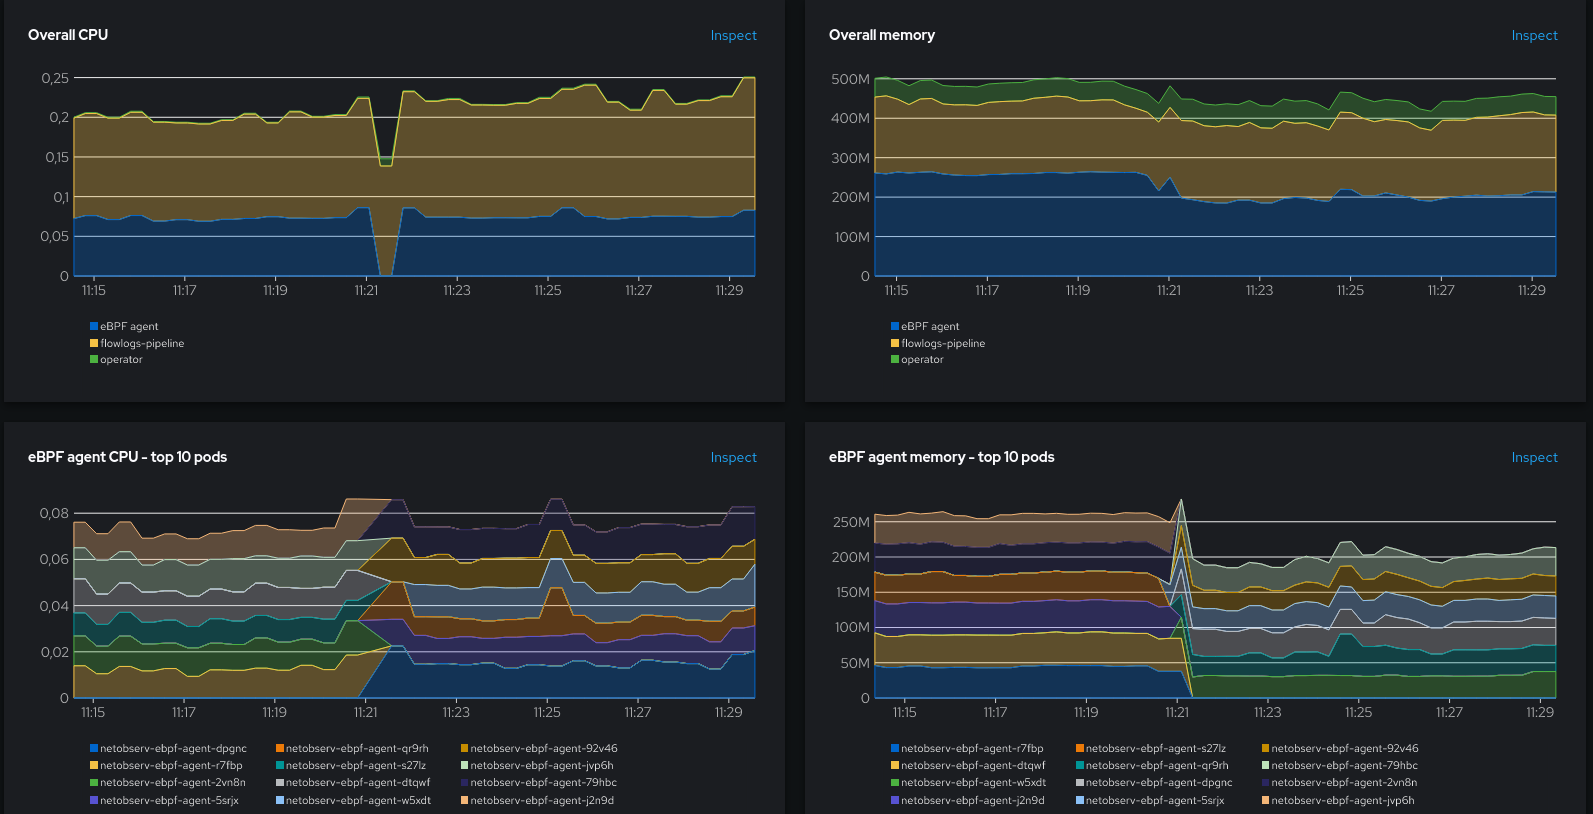
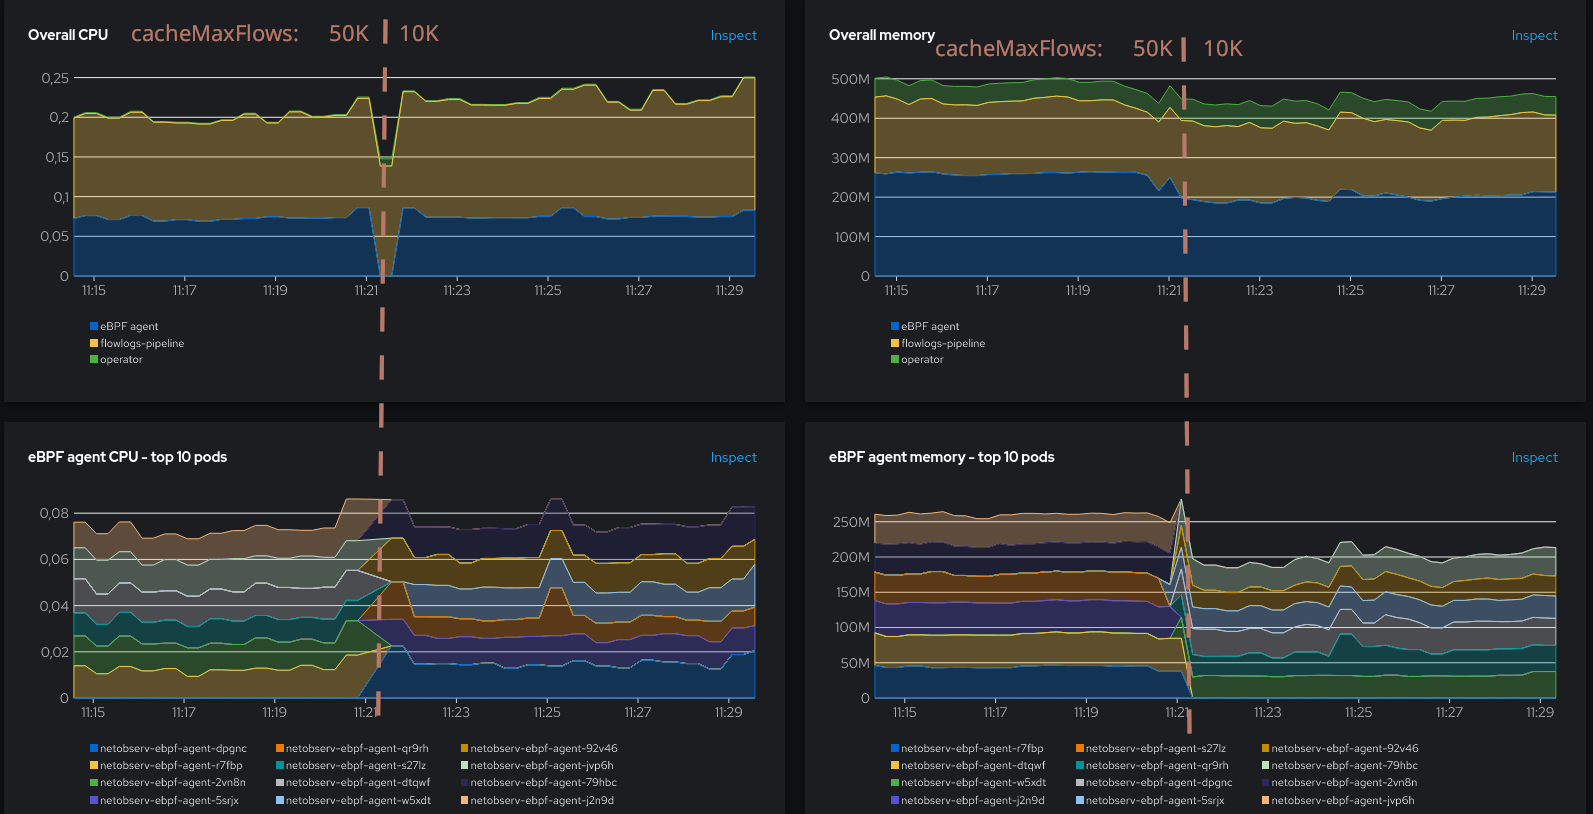
update metrics blog

diff --git a/blogs/agent_metrics_perf/index.md b/blogs/agent_metrics_perf/index.md
@@ -1,7 +1,7 @@
 # Performance fine-tuning - a deep dive in eBPF Agent metrics
 
 We have recently introduced new metrics to instrument the eBPF Agent, which are incredibly useful for performance fine-tuning.
-This blog focuses on some of the agent internal mechanisms of flows eviction, and more specifically how tuning the `cacheMaxFlows` parameter can help you lower CPU and memory consumption while keeping best possible performances.
+This blog focuses on some of the agent internal mechanisms of flows eviction, and more specifically how tuning the `cacheMaxFlows` parameter can help you improve the memory consumption while keeping the best possible performances.
 
 ## Testbed
 
@@ -9,19 +9,17 @@ I am running a test scenario consisting in:
 
 - An OpenShift 4.15 cluster deployed on AWS, with 3 worker nodes and 3 control-plane nodes, all amd64, `m6i.xlarge`.
 - Stable traffic generated by [hey-ho](https://github.com/jotak/hey-ho): `./hey-ho.sh -r 3 -d 3 -z 60m -n 2 -q 2 -p -b`. This creates 900 small load generators distributed in 2 namespaces, 6 deployments and 18 pods. Here I am more interested in the number of distinct 5-tuples that it generates (source/destination IP and ports, protocol) than in the bytes throughput itself, as this is what primarily impacts the number of created flows. Higher throughput does not necessarily mean more flows, as flows are an aggregation of packets meta-data per 5-tuple.
-- A custom build of NetObserv, which corresponds to the current development build plus two additional changes, not merged at the time of writing: a critical [performance improvement](https://github.com/netobserv/netobserv-ebpf-agent/pull/283) on the agent, and a [revisited health dashboard](https://github.com/netobserv/network-observability-operator/pull/583).
+- A build of NetObserv not yet available at the time of writing, based on the current development build plus some pending changes, including performance improvements. They should soon find their way to the main development branch.
 - An almost-default `FlowCollector` resource installed, with just:
-  - `spec.agent.ebpf.sampling` set to `1`
-  - `spec.agent.ebpf.metrics.enable` set to `true`
-  - `spec.loki.enable` set to `false`
+  - `spec.agent.ebpf.sampling` set to `1`, meaning: collect everything
+  - `spec.agent.ebpf.metrics.enable` set to `true` to get the metrics that we'll talk about
+  - `spec.loki.enable` set to `false` as we don't need it here
 
-## The new Health dashboard
+## A revisited Health dashboard
 
-The dashboard called "NetObserv / Health" is created when you install a `FlowCollector` resource. You can find it in the OpenShift Console under the "Observe" > "Dashboards" menu.
+The dashboard called "NetObserv / Health" is created when you install a `FlowCollector` resource. You can find it in the OpenShift Console under the "Observe" > "Dashboards" menu. It has got a fresh restyling while we added there the new agent metrics.
 
-(insert accessing the dashboard)
-
-It shows a bunch of statistics such as the flows per second that NetObserv captures, the configured sampling ratio (0 or 1 mean sample everything), the errors reported by managed components and the number of flows dropped, either upstream from the eBPF Agent, or downstream not stored in Loki. Below, the dashboard is broken down into different section per component, and lastly the resource usage.
+It shows a bunch of statistics such as the flows per second that NetObserv captures, the configured sampling ratio (0 or 1 mean sample everything), the errors reported by managed components and the number of flows dropped, either upstream from the eBPF Agent, or downstream not stored in Loki. Below, the dashboard is broken down into a different section per component, and lastly the resource usage.
 
 ![Health dashboard](./images/health-overview.png)
 
@@ -39,19 +37,19 @@ Like mentioned above, let's generate some traffic with `hey-ho`:
 
 This is spawning 18 pods in 2 namespaces, talking to each other. Let's have a look at the metrics then.
 
+The dashboard shows a stable number of flows captured per second, most of the time between 3K and 3.5K. No drops, no errors:
+
 ![Flows per second](./images/fps-1.png)
 
-We can see here that I have a pretty stable number of flows captured per second, most of the time between 3K and 3.5K. No drops, no errors.
+We may also check the `hey-ho` traffic captured by NetObserv, in bytes per second, with this `promql` query: `sum(rate(netobserv_workload_ingress_bytes_total{DstK8S_Namespace=~"gallery.*",DstK8S_OwnerType="Deployment"}[2m]))`. It is very stable at 4MBps:
 
 ![Hey-ho traffic](./images/heyho-mbps-1.png)
-
-We can also check the `hey-ho` traffic by NetObserv, in bytes per second, with this `promql` query: `sum(rate(netobserv_workload_ingress_bytes_total{DstK8S_Namespace=~"gallery.*",DstK8S_OwnerType="Deployment"}[2m]))`. It is very stable at 4MBps.
 
 Now looking at the resource usage:
 
 ![Resource usage](./images/res-usage-100000.png)
 
-That's also pretty stable, with the eBPF pods using in total around 0.08 CPU and around 340 MB.
+That's also relatively stable, with the eBPF pods using in total around 0.08 CPU and around 340 MB.
 
 ## Agent stats
 
@@ -59,24 +57,24 @@ Now let's look at the agent stats:
 
 ![Agent stats overview](./images/agent-stats-overview.png)
 
-What does all this mean? Well, we need first to open a parenthesis and talk a little bit about the [agent architecture](https://github.com/netobserv/netobserv-ebpf-agent/blob/main/docs/architecture.md).
+What does all this mean? OK, take a breath. We need to talk about the [agent architecture](https://github.com/netobserv/netobserv-ebpf-agent/blob/main/docs/architecture.md) first.
 
 ### Agent architecture
 
 ![Agent architecture](./images/agent-architecture.png)
 
-The Agent runs on every node and injects an [eBPF](https://ebpf.io/) program in the Linux kernel in order to listen received and sent packets on network interfaces. The Linux architecture segregates the kernel space and the user space, limiting how data can flow between them. Some specific data structures are available to eBPF programs in order to transfer data between those spaces. By default, our Agent uses two of these structures: a ring buffer, and per-CPU hashmaps (other structures can be used depending on the enabled features of the agent).
+The Agent runs on every node and injects an [eBPF](https://ebpf.io/) program in the Linux kernel in order to listen received and sent packets on network interfaces. The Linux architecture segregates the kernel space and the user space, restricting how data can flow between them. Some specific data structures are available to eBPF programs in order to transfer data between those spaces. By default, our Agent uses two of these structures: a ring buffer, and per-CPU hashmaps (other structures can be used depending on the enabled features of the agent).
 
-The diagram above shows the data path coming from the kernel space (the `FlowFetcher` box at the top), and being either retrieved from the ring buffer or from the maps, before being eventually merged into a single stream down to the exporters.
+The diagram above shows the data path coming from the kernel space (the `FlowFetcher` box at the top), and being either retrieved from the ring buffer or from the maps, before being eventually merged into a single stream that goes down to the exporters.
 
-So, when does a flow come from ring buffer, or when does it come from maps?
+Why two structures? When does a flow come from ring buffer, and when does it come from maps?
 Well, maps are the "normal" way to go. [We've found that they perform better than the ring buffer](https://opensource.com/article/22/8/ebpf-network-observability-cloud) for this use case. So normally, all flows should go through the maps.
 
-But because the maps are polled from the user space, it might happen that sometimes, when a new flow comes, they cannot be added to the map, generally because the map is busy or full. Those flows would be dropped unless we find another way to send them to the user space; so here comes the ring buffer.
+But because the maps are polled from the user space, it might happen sometimes, when a new flow comes up, it cannot be added to the map, generally because it is busy or full. Those flows would be dropped unless we find another way to send them to the user space; and here comes the ring buffer. This is it: just a fallback mechanism to avoid loosing flows.
 
-While maps allows to cache data in kernel and perform aggregation of packets meta-data into flows, the ring buffer transfers data to the user space every time a new flow packet is received. So it involves many more exchanges between kernel and user spaces, which has a computational cost. This is like a degraded situation; but the intent is that it should only be temporary and exceptional. When a packet is received in user space from the ring buffer, if the reason was that the map was full, it triggers a map flush event.
+The fundamental difference for us, between maps and the ring buffer, is that maps allow to cache data in kernel and perform aggregations of the packets meta-data into the cached flows, whereas the ring buffer transfers data to the user space every time a new flow packet is received. So it involves many more exchanges between kernel and user spaces, and that comes with a computational cost. So when the ring buffer is involved, this is like a degraded situation; but with the intent that it's just temporary and exceptional. When a packet is received in user space from the ring buffer, if the reason was that the map was full, it triggers a map flush event to get things back to normal as soon as possible.
 
-Previously, we didn't have much clue about what was going on in the agent data path. We mostly had to turn on profiling and dive into pprof. Now we've added instrumentation metrics so users can have a better understanding on what's going on, and allow users to take informed decisions for fine-tuning. So let's go back to the metrics.
+Previously, we didn't have many clues about what was going on under the cover, in the agent data path. We mostly had to turn on profiling and dive into it with `pprof`. Now metrics help us, and users, to get a better insight, and hopefully allow taking more informed decisions about fine-tuning. So let's go back to the metrics.
 
 ### Back to the dashboard
 
@@ -86,7 +84,11 @@ Parenthesis closed, we were looking at the different charts under the eBPF agent
 
 ![Eviction rate](./images/eviction-rate.png)
 
-In theory, you should see the same rate between the exporter (`grpc` here) and the `deduper`, and it should also equal the sum of `hashmap` and `accounter` (ie. coming from the ring buffer).
+In theory, you should see the same rate between the exporter (`grpc` here) and the `deduper`, and it should also equal the sum of `hashmap` and `accounter` (which is in the ring buffer data path).
+
+We seen on this picture that the hashmap is much more used than the ring buffer (accounter), which is expected when everything works well.
+
+You may also notice that the hashmap eviction rate is a flat constant 1.2. That's because the `cacheTimeout` setting used is the default `5s`, and I have 6 pods. (1 / 5s) x 6 = 1.2. In other words, all the evictions from the hashmap currently obey to the timeout rule.
 
 - **Ringbuffer / HashMap ratio**: ratio between ring-buffer evictions and hashmap evictions.
 
@@ -98,7 +100,7 @@ Keep it as low as possible. The picture here is fine: even the spike is actually
 
 ![Evicted flows rate](./images/evicted-flows-rate.png)
 
-- **Buffer sizes**: some internal buffer sizes. This one will be very important for the fine-tuning that follows.
+- **Buffer sizes**: some internal buffer sizes. This will be our starting point for fine-tuning.
 
 ![Buffer sizes](./images/buffer-sizes.png)
 
@@ -106,15 +108,17 @@ Even if there are five metrics, it shows mostly three things: the deduper cache 
 
 ## What can we learn already?
 
-Well, the buffer size metrics tell us that my hashmaps are containing around 15K to 25K elements. This is a sum for every eBPF Agent pods. I'm interested to know if my hashmap configuration isn't over-sized. We can click the Inspect link and edit a little bit the promQL to see per-pod utilization:
+The buffer size metrics tell us that the hashmaps are containing between 15K and 25K elements, which is a sum for every eBPF Agent pods. I'm interested to know if my hashmap configuration isn't over-sized. We can click the Inspect link and edit a little bit the promQL to see per-pod utilization:
+
+`netobserv_agent_buffer_size{name="hashmap-unique"}` shows per-pod maps size, or `max(netobserv_agent_buffer_size{name="hashmap-unique"})` shows the maximum map utilization across pods.
 
 ![Per-pod size](./images/per-pod-hashmap-size.png)
 
-Entering `netobserv_agent_buffer_size{name="hashmap-unique"}` in promQL (or `max(netobserv_agent_buffer_size{name="hashmap-unique"})` to only see the maximum map utilization across pods). Sounds like it never goes above 4K.
+Sounds like it never goes above 4K.
 
 ## Fine-tuning
 
-Remember my `FlowCollector` settings? I didn't change the `spec.agent.ebpf.cacheMaxFlows` value. It's the default 100K. So yes, for my usage, perhaps this is over-sized.
+Remember my `FlowCollector` settings? I didn't change the `spec.agent.ebpf.cacheMaxFlows` value. This is the setting used to set the map sizes, and it defaults to 100K. So yes, for my usage, perhaps this is over-sized as my maps are generally under 4K.
 
 Let's halve it and see what happens.
 
@@ -126,25 +130,25 @@ The eviction rate, and the flows per second haven't changed a lot, this is reass
 
 ![Hey-ho traffic](./images/heyho-mbps-2.png)
 
-Still a pretty flat 4 MBps. So far so good. So what, didn't it have any impact at all? What about the resource usage?
+Still a pretty flat 4 MBps. So far so good. So what, does it have any impact at all? What about the resource usage?
 
 ![Resource usage at 50000 cacheMaxFlows](./images/res-usage-50000.png)
 
-Oh, waw! Although no much impact on CPU, the memory decreased by quite a lot! From more than 400 MB to 250 MB.
+Oh, waw! Although no much impact on CPU, the memory has been greatly reduced! From more than 400 MB to 250 MB. That was a good move.
 
 Let's go further and set `cacheMaxFlows` to 10K.
 
 ### cacheMaxFlows=10000
 
-We're getting closer to the 4K utilization that we were seeing before. If this threshold is reach, we can expect more use of the ring buffer. Let's see if that happens.
+We're getting closer to the 4K utilization that we were seeing before. If this threshold is reached, we can expect more use of the ring buffer. Let's see if that happens.
 
 ![Agent stats at 10000 cacheMaxFlows](./images/agent-stats-10000.png)
 
-While the ring buffer doesn't seem to be more used most of the time, we can see a spike at 11:25. Maps are still well used but we see that it had an impact on the deduper buffer size and the flows evicted.
+While the ring buffer doesn't seem to be more used most of the time, there is a spike at 11:25. Maps are still well used but it had an impact on the deduper buffer size and the flows evicted.
 
 Taking a close look at the eviction rate graph, there's a small increase of the hashmap line (purple) at the same time, whereas it used to be a flat 1.2 otherwise. What does it say? It says that for the first time here, the map eviction was not due to the `cacheTimeout` setting (evicting every 5s), but it was due to the map being full.
 
-Note that there is an artifact visible here, a global increase of the flows being generated (~3.5K to ~4K), which I am not sure how to explain but could be related to having restarted my test workloads. After some time it retrieves the previous level:
+Note that there is an artifact visible here, a global increase of the flows being generated (~3.5K to ~4K), which I am not sure to explain but could be related to having restarted my test workloads. 10 minutes later it retrieved its previous level, closer to 3K:
 
 ![FPS back to normal](./images/fps-back-normal.png)
 
@@ -152,7 +156,7 @@ What about the resource usage?
 
 ![Resource usage at 10000 cacheMaxFlows](./images/res-usage-10000.png)
 
-Memory decreased again, though not by as much as before. There is a very slight CPU increase but I'd put it down to the increased number of flows, as it decreases later on. So it sounds like despite approaching the utilization threshold, we're still on a positive trend but it weakens.
+Memory decreased again, though not as much as before. There is a slight CPU increase which I attribute to the increased number of flows (this as well decreases after 10 minutes). So it sounds like despite approaching the utilization threshold, we're still on a positive trend, but it weakens.
 
 Next step: dare the devil below the utilization threshold, with 2K.
 
@@ -162,11 +166,13 @@ I don't expect anything good here, but let's see.
 
 ![Agent stats at 2000 cacheMaxFlows](./images/agent-stats-2000.png)
 
+Resource usage:
+
 ![Resource usage at 2000 cacheMaxFlows](./images/res-usage-2000.png)
 
-Well, the situation has worsened, but not as much as I feared. The CPU has grown by +40% but the number of flows, while also growing, is still contained. Memory consumption looks unchanged, although it has probably been re-balanced internally between the hashmap and other parts. As expected, the ring buffer is now consistently used, but still in decent proportions. Things can really get out of hand when the ratio exceeds ~0.05, but here it is still an order of magnitude below.
+Well, the situation has worsened, but not as much as I feared. The CPU has grown by +40% but the number of flows, while also growing, is not exploding. Memory consumption looks unchanged, although it has probably been re-balanced internally between the hashmap and other parts. As expected, the ring buffer is now consistently used, but still in decent proportions. Things can really get out of hand when the ratio exceeds ~0.05, but here it is still an order of magnitude below.
 
-Also, something interesting to note is that hashmap evictions (purple line) are now never due to the 5s timeout, being far above 1.2 (there are 6 agent pods, the timeout rate per pod is 1/5 = 0.2, multiplied by 6 = 1.2). Let's see what happens if we set a more aggressive timeout.
+Also, something interesting to note is that the hashmap evictions (purple line in Evictions rate graph) are now consistently above 1.2, meaning that they are not due to the timeout, but to the maps being full. Let's see what happens if we set a more aggressive timeout.
 
 ### cacheTimeout=1s
 
@@ -178,11 +184,11 @@ We reached our goal: the ring buffer ratio has dropped. But we see more flows ar
 
 ![Resource usage at 1s cacheTimeout](./images/res-usage-1s.png)
 
-As expected, more flows means more CPU. This also impacts the components that are downstream the pipeline (flowlogs-pipeline and, if you use them, Kafka and Loki), which may also need more CPU. But while the situation seems less glorious here, this is on purpose: to keep us out of a flows runaway due to over-use of the ring buffer.
+As expected, more flows mean more CPU. This also impacts the components that are downstream the pipeline (flowlogs-pipeline and, if you use them, Kafka and Loki), which may also need more CPU. But while the situation seems less glorious here, this is on purpose: to keep us out of a flows runaway due to over-use of the ring buffer.
 
 ### When it all goes wrong
 
-Just for the sake of the demonstration, here's how it looks like with an undersized hashmap leading to over-use of the ring-buffer:
+Just for the sake of the demonstration, here's how it looks like with an undersized hashmap leading to over-use of the ring buffer:
 
 ![Agent stats runaway](./images/agent-stats-runaway.png)
 
@@ -190,17 +196,17 @@ The ring buffer ratio went above 0.05 with even a huge spike to 0.5. This result
 
 ![Resource usage runaway](./images/res-usage-runaway.png)
 
-This had a big impact on CPU usage, which was more than tripled.
+This had a big impact on CPU usage, which had more than tripled.
 
 ## Conclusion
 
 The key takeaways are:
 
-1, we must ensure to not use under-sized eBPF hashmaps, which is controlled in `FlowCollector` with `spec.agent.ebpf.cacheMaxFlows`, and probably the best way to do this is by monitoring the Ringbuffer / HashMap ratio
+1, we must ensure to not use under-sized eBPF hashmaps, which is controlled in `FlowCollector` with `spec.agent.ebpf.cacheMaxFlows`, and probably the best way to do this is by monitoring the Ringbuffer / HashMap ratio. It might be a good idea to create a Prometheus alert when the ratio reaches some threshold.
 
-2, while keeping point 1 in mind, there are potential improvements on the memory footprint, by downsizing the hashmaps. But it is recommended to keep a safety margin, because of course, real world traffic isn't flat and the maps must be able to absorb the spikes as much as possible.
+2, while keeping point 1 in mind, there are potential important improvements to have on the memory footprint, by downsizing the hashmaps when possible. It is however highly recommended to keep a safety margin, because of course, real world traffic isn't flat and the maps must be able to absorb traffic spikes.
 
-As a last picture, this is how the captured traffic looked like during all these tests (in orange) versus the same from cAdvisor metrics (in blue):
+As a last picture, this is how the captured traffic looked like during all these tests (in orange) versus the same from cAdvisor metrics, taken as a reference (in blue):
 
 ![Hey-ho traffic](./images/heyho-mbps-3.png)
 
